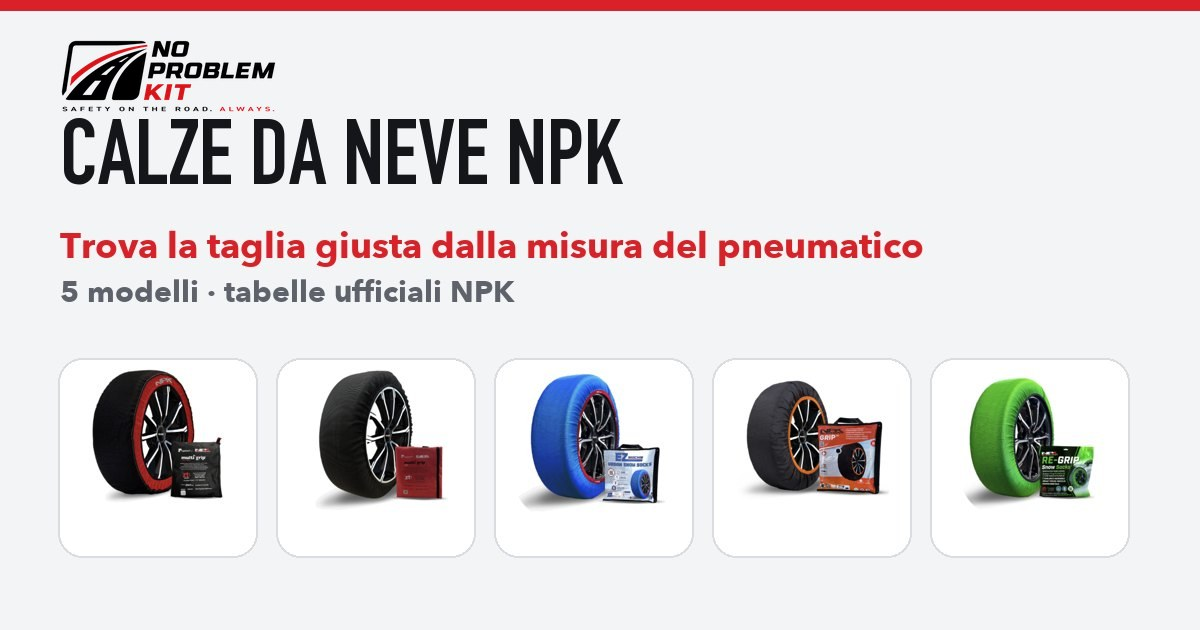
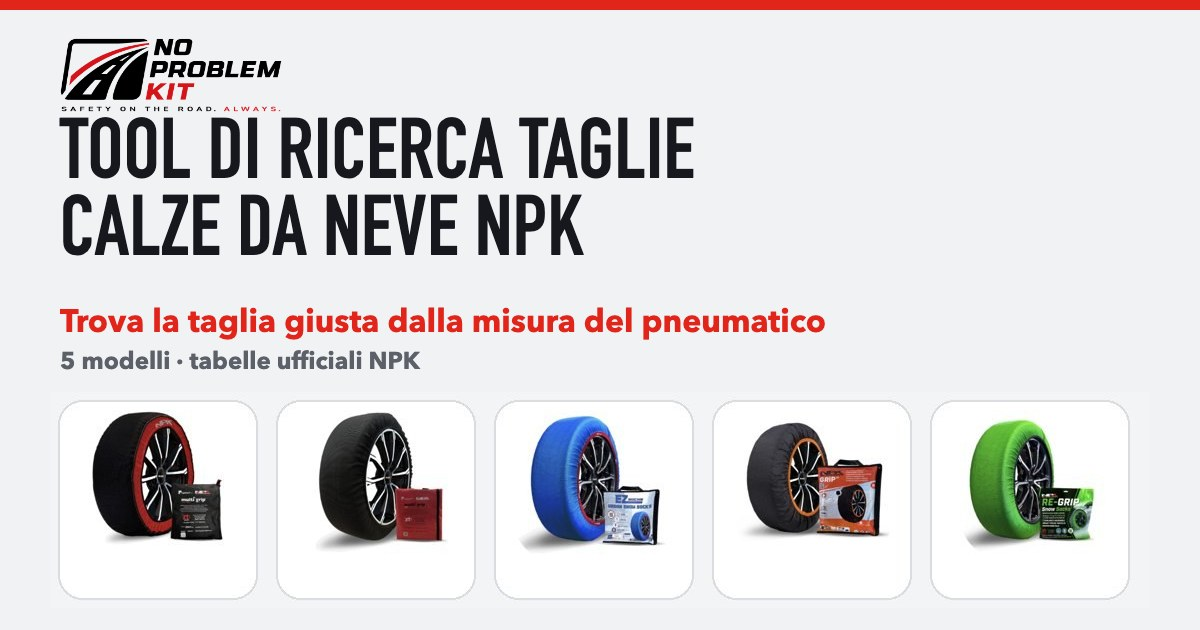
TOOL PRODOTTI: anteprima del tool calze con il titolo TOOL DI RICERCA TAGLIE CALZE DA NEVE NPK

diff --git a/francesco-dicesare/index.html b/francesco-dicesare/index.html
@@ -96,7 +96,7 @@ p.sub{color:var(--mute);font-size:15px;margin:6px 0 20px}
 <div class="v" data-n="2026-11-06b"><a href="vademecum-truck/" class="img"><img src="vademecum-truck/anteprima.jpg" alt="" loading="lazy" width="1200" height="630"></a><div class="t"><b>Vademecum Truck · la guida formativa TRK</b><small>ABC del truck, misure, gamma TRK, clienti, domande da fare e obiezioni. Solo da leggere: riservato agli agenti, il link non va inviato a nessuno.</small><div class="bt" style="grid-template-columns:1fr"><a href="vademecum-truck/" style="background:var(--ink);color:#fff">Apri il vademecum</a></div></div></div>
 <a class="su" href="#inizio">↑ Torna alle sezioni</a></section>
 <section class="sez" data-s="tool" hidden><img class="banner" src="../loghi/tool-prodotti-testata.svg" alt="" width="1200" height="360"><h2>TOOL PRODOTTI</h2>
-<div class="v" data-n="2026-11-08"><a href="https://makwheels.github.io/mak-calze-neve/" class="img"><img src="../tool-prodotti/calze-neve.jpg?v=3" alt="" loading="lazy" width="1200" height="630"></a><div class="t"><b>Tool di ricerca taglie calze da neve NPK · trova la taglia giusta</b><small>Tutti e 5 i modelli: The Original, Light, EZ Socks, Grip 3D e RE Grip. Metti la misura del pneumatico e vedi la taglia, con le tabelle ufficiali NPK.</small><code>https://makwheels.github.io/mak-calze-neve/</code><div class="bt"><button type="button" data-url="https://makwheels.github.io/mak-calze-neve/">Copia link</button><a class="wa" href="https://wa.me/?text=https%3A//makwheels.github.io/mak-calze-neve/" target="_blank" rel="noopener">Manda su WhatsApp</a></div></div></div>
+<div class="v" data-n="2026-11-08"><a href="https://makwheels.github.io/mak-calze-neve/" class="img"><img src="../tool-prodotti/calze-neve.jpg?v=4" alt="" loading="lazy" width="1200" height="630"></a><div class="t"><b>Tool di ricerca taglie calze da neve NPK · trova la taglia giusta</b><small>Tutti e 5 i modelli: The Original, Light, EZ Socks, Grip 3D e RE Grip. Metti la misura del pneumatico e vedi la taglia, con le tabelle ufficiali NPK.</small><code>https://makwheels.github.io/mak-calze-neve/</code><div class="bt"><button type="button" data-url="https://makwheels.github.io/mak-calze-neve/">Copia link</button><a class="wa" href="https://wa.me/?text=https%3A//makwheels.github.io/mak-calze-neve/" target="_blank" rel="noopener">Manda su WhatsApp</a></div></div></div>
 <a class="su" href="#inizio">↑ Torna alle sezioni</a></section>
 <section class="sez" data-s="push" hidden><img class="banner" src="../loghi/azioni-push-testata.svg" alt="" width="1200" height="360"><h2>AZIONI PUSH</h2>
 <div class="v" data-n="2026-11-08"><a href="promo-npk-30-3/" class="img"><img src="promo-npk-30-3/anteprima.jpg" alt="" loading="lazy" width="1200" height="630"></a><div class="t"><b>NPK 30+3 · 3 EZ Drive in omaggio</b><small>30 EZ Repair a 18,33 € + IVA l'uno, 3 EZ Drive in omaggio: 550 € + IVA. Solo fino al 15 novembre. Guarda quanto ci guadagni e ordina su WhatsApp.</small><code>https://makwheels.github.io/workspace-interattivo-mak/francesco-dicesare/promo-npk-30-3/</code><div class="bt"><button type="button" data-url="https://makwheels.github.io/workspace-interattivo-mak/francesco-dicesare/promo-npk-30-3/">Copia link</button><a class="wa" href="https://wa.me/?text=https%3A//makwheels.github.io/workspace-interattivo-mak/francesco-dicesare/promo-npk-30-3/" target="_blank" rel="noopener">Manda su WhatsApp</a></div></div></div>

diff --git a/marco-cesarini/index.html b/marco-cesarini/index.html
@@ -96,7 +96,7 @@ p.sub{color:var(--mute);font-size:15px;margin:6px 0 20px}
 <div class="v" data-n="2026-11-06b"><a href="vademecum-truck/" class="img"><img src="vademecum-truck/anteprima.jpg" alt="" loading="lazy" width="1200" height="630"></a><div class="t"><b>Vademecum Truck · la guida formativa TRK</b><small>ABC del truck, misure, gamma TRK, clienti, domande da fare e obiezioni. Solo da leggere: riservato agli agenti, il link non va inviato a nessuno.</small><div class="bt" style="grid-template-columns:1fr"><a href="vademecum-truck/" style="background:var(--ink);color:#fff">Apri il vademecum</a></div></div></div>
 <a class="su" href="#inizio">↑ Torna alle sezioni</a></section>
 <section class="sez" data-s="tool" hidden><img class="banner" src="../loghi/tool-prodotti-testata.svg" alt="" width="1200" height="360"><h2>TOOL PRODOTTI</h2>
-<div class="v" data-n="2026-11-08"><a href="https://makwheels.github.io/mak-calze-neve/" class="img"><img src="../tool-prodotti/calze-neve.jpg?v=3" alt="" loading="lazy" width="1200" height="630"></a><div class="t"><b>Tool di ricerca taglie calze da neve NPK · trova la taglia giusta</b><small>Tutti e 5 i modelli: The Original, Light, EZ Socks, Grip 3D e RE Grip. Metti la misura del pneumatico e vedi la taglia, con le tabelle ufficiali NPK.</small><code>https://makwheels.github.io/mak-calze-neve/</code><div class="bt"><button type="button" data-url="https://makwheels.github.io/mak-calze-neve/">Copia link</button><a class="wa" href="https://wa.me/?text=https%3A//makwheels.github.io/mak-calze-neve/" target="_blank" rel="noopener">Manda su WhatsApp</a></div></div></div>
+<div class="v" data-n="2026-11-08"><a href="https://makwheels.github.io/mak-calze-neve/" class="img"><img src="../tool-prodotti/calze-neve.jpg?v=4" alt="" loading="lazy" width="1200" height="630"></a><div class="t"><b>Tool di ricerca taglie calze da neve NPK · trova la taglia giusta</b><small>Tutti e 5 i modelli: The Original, Light, EZ Socks, Grip 3D e RE Grip. Metti la misura del pneumatico e vedi la taglia, con le tabelle ufficiali NPK.</small><code>https://makwheels.github.io/mak-calze-neve/</code><div class="bt"><button type="button" data-url="https://makwheels.github.io/mak-calze-neve/">Copia link</button><a class="wa" href="https://wa.me/?text=https%3A//makwheels.github.io/mak-calze-neve/" target="_blank" rel="noopener">Manda su WhatsApp</a></div></div></div>
 <a class="su" href="#inizio">↑ Torna alle sezioni</a></section>
 <section class="sez" data-s="push" hidden><img class="banner" src="../loghi/azioni-push-testata.svg" alt="" width="1200" height="360"><h2>AZIONI PUSH</h2>
 <div class="v" data-n="2026-11-08"><a href="promo-npk-30-3/" class="img"><img src="promo-npk-30-3/anteprima.jpg" alt="" loading="lazy" width="1200" height="630"></a><div class="t"><b>NPK 30+3 · 3 EZ Drive in omaggio</b><small>30 EZ Repair a 18,33 € + IVA l'uno, 3 EZ Drive in omaggio: 550 € + IVA. Solo fino al 15 novembre. Guarda quanto ci guadagni e ordina su WhatsApp.</small><code>https://makwheels.github.io/workspace-interattivo-mak/marco-cesarini/promo-npk-30-3/</code><div class="bt"><button type="button" data-url="https://makwheels.github.io/workspace-interattivo-mak/marco-cesarini/promo-npk-30-3/">Copia link</button><a class="wa" href="https://wa.me/?text=https%3A//makwheels.github.io/workspace-interattivo-mak/marco-cesarini/promo-npk-30-3/" target="_blank" rel="noopener">Manda su WhatsApp</a></div></div></div>

diff --git a/matteo-vismara/index.html b/matteo-vismara/index.html
@@ -96,7 +96,7 @@ p.sub{color:var(--mute);font-size:15px;margin:6px 0 20px}
 <div class="v" data-n="2026-11-06b"><a href="vademecum-truck/" class="img"><img src="vademecum-truck/anteprima.jpg" alt="" loading="lazy" width="1200" height="630"></a><div class="t"><b>Vademecum Truck · la guida formativa TRK</b><small>ABC del truck, misure, gamma TRK, clienti, domande da fare e obiezioni. Solo da leggere: riservato agli agenti, il link non va inviato a nessuno.</small><div class="bt" style="grid-template-columns:1fr"><a href="vademecum-truck/" style="background:var(--ink);color:#fff">Apri il vademecum</a></div></div></div>
 <a class="su" href="#inizio">↑ Torna alle sezioni</a></section>
 <section class="sez" data-s="tool" hidden><img class="banner" src="../loghi/tool-prodotti-testata.svg" alt="" width="1200" height="360"><h2>TOOL PRODOTTI</h2>
-<div class="v" data-n="2026-11-08"><a href="https://makwheels.github.io/mak-calze-neve/" class="img"><img src="../tool-prodotti/calze-neve.jpg?v=3" alt="" loading="lazy" width="1200" height="630"></a><div class="t"><b>Tool di ricerca taglie calze da neve NPK · trova la taglia giusta</b><small>Tutti e 5 i modelli: The Original, Light, EZ Socks, Grip 3D e RE Grip. Metti la misura del pneumatico e vedi la taglia, con le tabelle ufficiali NPK.</small><code>https://makwheels.github.io/mak-calze-neve/</code><div class="bt"><button type="button" data-url="https://makwheels.github.io/mak-calze-neve/">Copia link</button><a class="wa" href="https://wa.me/?text=https%3A//makwheels.github.io/mak-calze-neve/" target="_blank" rel="noopener">Manda su WhatsApp</a></div></div></div>
+<div class="v" data-n="2026-11-08"><a href="https://makwheels.github.io/mak-calze-neve/" class="img"><img src="../tool-prodotti/calze-neve.jpg?v=4" alt="" loading="lazy" width="1200" height="630"></a><div class="t"><b>Tool di ricerca taglie calze da neve NPK · trova la taglia giusta</b><small>Tutti e 5 i modelli: The Original, Light, EZ Socks, Grip 3D e RE Grip. Metti la misura del pneumatico e vedi la taglia, con le tabelle ufficiali NPK.</small><code>https://makwheels.github.io/mak-calze-neve/</code><div class="bt"><button type="button" data-url="https://makwheels.github.io/mak-calze-neve/">Copia link</button><a class="wa" href="https://wa.me/?text=https%3A//makwheels.github.io/mak-calze-neve/" target="_blank" rel="noopener">Manda su WhatsApp</a></div></div></div>
 <a class="su" href="#inizio">↑ Torna alle sezioni</a></section>
 <section class="sez" data-s="push" hidden><img class="banner" src="../loghi/azioni-push-testata.svg" alt="" width="1200" height="360"><h2>AZIONI PUSH</h2>
 <div class="v" data-n="2026-11-08"><a href="promo-npk-30-3/" class="img"><img src="promo-npk-30-3/anteprima.jpg" alt="" loading="lazy" width="1200" height="630"></a><div class="t"><b>NPK 30+3 · 3 EZ Drive in omaggio</b><small>30 EZ Repair a 18,33 € + IVA l'uno, 3 EZ Drive in omaggio: 550 € + IVA. Solo fino al 15 novembre. Guarda quanto ci guadagni e ordina su WhatsApp.</small><code>https://makwheels.github.io/workspace-interattivo-mak/matteo-vismara/promo-npk-30-3/</code><div class="bt"><button type="button" data-url="https://makwheels.github.io/workspace-interattivo-mak/matteo-vismara/promo-npk-30-3/">Copia link</button><a class="wa" href="https://wa.me/?text=https%3A//makwheels.github.io/workspace-interattivo-mak/matteo-vismara/promo-npk-30-3/" target="_blank" rel="noopener">Manda su WhatsApp</a></div></div></div>

diff --git a/mauro-galante/index.html b/mauro-galante/index.html
@@ -96,7 +96,7 @@ p.sub{color:var(--mute);font-size:15px;margin:6px 0 20px}
 <div class="v" data-n="2026-11-06b"><a href="vademecum-truck/" class="img"><img src="vademecum-truck/anteprima.jpg" alt="" loading="lazy" width="1200" height="630"></a><div class="t"><b>Vademecum Truck · la guida formativa TRK</b><small>ABC del truck, misure, gamma TRK, clienti, domande da fare e obiezioni. Solo da leggere: riservato agli agenti, il link non va inviato a nessuno.</small><div class="bt" style="grid-template-columns:1fr"><a href="vademecum-truck/" style="background:var(--ink);color:#fff">Apri il vademecum</a></div></div></div>
 <a class="su" href="#inizio">↑ Torna alle sezioni</a></section>
 <section class="sez" data-s="tool" hidden><img class="banner" src="../loghi/tool-prodotti-testata.svg" alt="" width="1200" height="360"><h2>TOOL PRODOTTI</h2>
-<div class="v" data-n="2026-11-08"><a href="https://makwheels.github.io/mak-calze-neve/" class="img"><img src="../tool-prodotti/calze-neve.jpg?v=3" alt="" loading="lazy" width="1200" height="630"></a><div class="t"><b>Tool di ricerca taglie calze da neve NPK · trova la taglia giusta</b><small>Tutti e 5 i modelli: The Original, Light, EZ Socks, Grip 3D e RE Grip. Metti la misura del pneumatico e vedi la taglia, con le tabelle ufficiali NPK.</small><code>https://makwheels.github.io/mak-calze-neve/</code><div class="bt"><button type="button" data-url="https://makwheels.github.io/mak-calze-neve/">Copia link</button><a class="wa" href="https://wa.me/?text=https%3A//makwheels.github.io/mak-calze-neve/" target="_blank" rel="noopener">Manda su WhatsApp</a></div></div></div>
+<div class="v" data-n="2026-11-08"><a href="https://makwheels.github.io/mak-calze-neve/" class="img"><img src="../tool-prodotti/calze-neve.jpg?v=4" alt="" loading="lazy" width="1200" height="630"></a><div class="t"><b>Tool di ricerca taglie calze da neve NPK · trova la taglia giusta</b><small>Tutti e 5 i modelli: The Original, Light, EZ Socks, Grip 3D e RE Grip. Metti la misura del pneumatico e vedi la taglia, con le tabelle ufficiali NPK.</small><code>https://makwheels.github.io/mak-calze-neve/</code><div class="bt"><button type="button" data-url="https://makwheels.github.io/mak-calze-neve/">Copia link</button><a class="wa" href="https://wa.me/?text=https%3A//makwheels.github.io/mak-calze-neve/" target="_blank" rel="noopener">Manda su WhatsApp</a></div></div></div>
 <a class="su" href="#inizio">↑ Torna alle sezioni</a></section>
 <section class="sez" data-s="push" hidden><img class="banner" src="../loghi/azioni-push-testata.svg" alt="" width="1200" height="360"><h2>AZIONI PUSH</h2>
 <div class="v" data-n="2026-11-08"><a href="promo-npk-30-3/" class="img"><img src="promo-npk-30-3/anteprima.jpg" alt="" loading="lazy" width="1200" height="630"></a><div class="t"><b>NPK 30+3 · 3 EZ Drive in omaggio</b><small>30 EZ Repair a 18,33 € + IVA l'uno, 3 EZ Drive in omaggio: 550 € + IVA. Solo fino al 15 novembre. Guarda quanto ci guadagni e ordina su WhatsApp.</small><code>https://makwheels.github.io/workspace-interattivo-mak/mauro-galante/promo-npk-30-3/</code><div class="bt"><button type="button" data-url="https://makwheels.github.io/workspace-interattivo-mak/mauro-galante/promo-npk-30-3/">Copia link</button><a class="wa" href="https://wa.me/?text=https%3A//makwheels.github.io/workspace-interattivo-mak/mauro-galante/promo-npk-30-3/" target="_blank" rel="noopener">Manda su WhatsApp</a></div></div></div>

diff --git a/mauro-pallini/index.html b/mauro-pallini/index.html
@@ -96,7 +96,7 @@ p.sub{color:var(--mute);font-size:15px;margin:6px 0 20px}
 <div class="v" data-n="2026-11-06b"><a href="vademecum-truck/" class="img"><img src="vademecum-truck/anteprima.jpg" alt="" loading="lazy" width="1200" height="630"></a><div class="t"><b>Vademecum Truck · la guida formativa TRK</b><small>ABC del truck, misure, gamma TRK, clienti, domande da fare e obiezioni. Solo da leggere: riservato agli agenti, il link non va inviato a nessuno.</small><div class="bt" style="grid-template-columns:1fr"><a href="vademecum-truck/" style="background:var(--ink);color:#fff">Apri il vademecum</a></div></div></div>
 <a class="su" href="#inizio">↑ Torna alle sezioni</a></section>
 <section class="sez" data-s="tool" hidden><img class="banner" src="../loghi/tool-prodotti-testata.svg" alt="" width="1200" height="360"><h2>TOOL PRODOTTI</h2>
-<div class="v" data-n="2026-11-08"><a href="https://makwheels.github.io/mak-calze-neve/" class="img"><img src="../tool-prodotti/calze-neve.jpg?v=3" alt="" loading="lazy" width="1200" height="630"></a><div class="t"><b>Tool di ricerca taglie calze da neve NPK · trova la taglia giusta</b><small>Tutti e 5 i modelli: The Original, Light, EZ Socks, Grip 3D e RE Grip. Metti la misura del pneumatico e vedi la taglia, con le tabelle ufficiali NPK.</small><code>https://makwheels.github.io/mak-calze-neve/</code><div class="bt"><button type="button" data-url="https://makwheels.github.io/mak-calze-neve/">Copia link</button><a class="wa" href="https://wa.me/?text=https%3A//makwheels.github.io/mak-calze-neve/" target="_blank" rel="noopener">Manda su WhatsApp</a></div></div></div>
+<div class="v" data-n="2026-11-08"><a href="https://makwheels.github.io/mak-calze-neve/" class="img"><img src="../tool-prodotti/calze-neve.jpg?v=4" alt="" loading="lazy" width="1200" height="630"></a><div class="t"><b>Tool di ricerca taglie calze da neve NPK · trova la taglia giusta</b><small>Tutti e 5 i modelli: The Original, Light, EZ Socks, Grip 3D e RE Grip. Metti la misura del pneumatico e vedi la taglia, con le tabelle ufficiali NPK.</small><code>https://makwheels.github.io/mak-calze-neve/</code><div class="bt"><button type="button" data-url="https://makwheels.github.io/mak-calze-neve/">Copia link</button><a class="wa" href="https://wa.me/?text=https%3A//makwheels.github.io/mak-calze-neve/" target="_blank" rel="noopener">Manda su WhatsApp</a></div></div></div>
 <a class="su" href="#inizio">↑ Torna alle sezioni</a></section>
 <section class="sez" data-s="push" hidden><img class="banner" src="../loghi/azioni-push-testata.svg" alt="" width="1200" height="360"><h2>AZIONI PUSH</h2>
 <div class="v" data-n="2026-11-08"><a href="promo-npk-30-3/" class="img"><img src="promo-npk-30-3/anteprima.jpg" alt="" loading="lazy" width="1200" height="630"></a><div class="t"><b>NPK 30+3 · 3 EZ Drive in omaggio</b><small>30 EZ Repair a 18,33 € + IVA l'uno, 3 EZ Drive in omaggio: 550 € + IVA. Solo fino al 15 novembre. Guarda quanto ci guadagni e ordina su WhatsApp.</small><code>https://makwheels.github.io/workspace-interattivo-mak/mauro-pallini/promo-npk-30-3/</code><div class="bt"><button type="button" data-url="https://makwheels.github.io/workspace-interattivo-mak/mauro-pallini/promo-npk-30-3/">Copia link</button><a class="wa" href="https://wa.me/?text=https%3A//makwheels.github.io/workspace-interattivo-mak/mauro-pallini/promo-npk-30-3/" target="_blank" rel="noopener">Manda su WhatsApp</a></div></div></div>

diff --git a/marco-podda/index.html b/marco-podda/index.html
@@ -96,7 +96,7 @@ p.sub{color:var(--mute);font-size:15px;margin:6px 0 20px}
 <div class="v" data-n="2026-11-06b"><a href="vademecum-truck/" class="img"><img src="vademecum-truck/anteprima.jpg" alt="" loading="lazy" width="1200" height="630"></a><div class="t"><b>Vademecum Truck · la guida formativa TRK</b><small>ABC del truck, misure, gamma TRK, clienti, domande da fare e obiezioni. Solo da leggere: riservato agli agenti, il link non va inviato a nessuno.</small><div class="bt" style="grid-template-columns:1fr"><a href="vademecum-truck/" style="background:var(--ink);color:#fff">Apri il vademecum</a></div></div></div>
 <a class="su" href="#inizio">↑ Torna alle sezioni</a></section>
 <section class="sez" data-s="tool" hidden><img class="banner" src="../loghi/tool-prodotti-testata.svg" alt="" width="1200" height="360"><h2>TOOL PRODOTTI</h2>
-<div class="v" data-n="2026-11-08"><a href="https://makwheels.github.io/mak-calze-neve/" class="img"><img src="../tool-prodotti/calze-neve.jpg?v=3" alt="" loading="lazy" width="1200" height="630"></a><div class="t"><b>Tool di ricerca taglie calze da neve NPK · trova la taglia giusta</b><small>Tutti e 5 i modelli: The Original, Light, EZ Socks, Grip 3D e RE Grip. Metti la misura del pneumatico e vedi la taglia, con le tabelle ufficiali NPK.</small><code>https://makwheels.github.io/mak-calze-neve/</code><div class="bt"><button type="button" data-url="https://makwheels.github.io/mak-calze-neve/">Copia link</button><a class="wa" href="https://wa.me/?text=https%3A//makwheels.github.io/mak-calze-neve/" target="_blank" rel="noopener">Manda su WhatsApp</a></div></div></div>
+<div class="v" data-n="2026-11-08"><a href="https://makwheels.github.io/mak-calze-neve/" class="img"><img src="../tool-prodotti/calze-neve.jpg?v=4" alt="" loading="lazy" width="1200" height="630"></a><div class="t"><b>Tool di ricerca taglie calze da neve NPK · trova la taglia giusta</b><small>Tutti e 5 i modelli: The Original, Light, EZ Socks, Grip 3D e RE Grip. Metti la misura del pneumatico e vedi la taglia, con le tabelle ufficiali NPK.</small><code>https://makwheels.github.io/mak-calze-neve/</code><div class="bt"><button type="button" data-url="https://makwheels.github.io/mak-calze-neve/">Copia link</button><a class="wa" href="https://wa.me/?text=https%3A//makwheels.github.io/mak-calze-neve/" target="_blank" rel="noopener">Manda su WhatsApp</a></div></div></div>
 <a class="su" href="#inizio">↑ Torna alle sezioni</a></section>
 <section class="sez" data-s="push" hidden><img class="banner" src="../loghi/azioni-push-testata.svg" alt="" width="1200" height="360"><h2>AZIONI PUSH</h2>
 <div class="v" data-n="2026-11-08"><a href="promo-npk-30-3/" class="img"><img src="promo-npk-30-3/anteprima.jpg" alt="" loading="lazy" width="1200" height="630"></a><div class="t"><b>NPK 30+3 · 3 EZ Drive in omaggio</b><small>30 EZ Repair a 18,33 € + IVA l'uno, 3 EZ Drive in omaggio: 550 € + IVA. Solo fino al 15 novembre. Guarda quanto ci guadagni e ordina su WhatsApp.</small><code>https://makwheels.github.io/workspace-interattivo-mak/marco-podda/promo-npk-30-3/</code><div class="bt"><button type="button" data-url="https://makwheels.github.io/workspace-interattivo-mak/marco-podda/promo-npk-30-3/">Copia link</button><a class="wa" href="https://wa.me/?text=https%3A//makwheels.github.io/workspace-interattivo-mak/marco-podda/promo-npk-30-3/" target="_blank" rel="noopener">Manda su WhatsApp</a></div></div></div>

diff --git a/sebastiano/index.html b/sebastiano/index.html
@@ -96,7 +96,7 @@ p.sub{color:var(--mute);font-size:15px;margin:6px 0 20px}
 <div class="v" data-n="2026-11-06b"><a href="vademecum-truck/" class="img"><img src="vademecum-truck/anteprima.jpg" alt="" loading="lazy" width="1200" height="630"></a><div class="t"><b>Vademecum Truck · la guida formativa TRK</b><small>ABC del truck, misure, gamma TRK, clienti, domande da fare e obiezioni. Solo da leggere: riservato agli agenti, il link non va inviato a nessuno.</small><div class="bt" style="grid-template-columns:1fr"><a href="vademecum-truck/" style="background:var(--ink);color:#fff">Apri il vademecum</a></div></div></div>
 <a class="su" href="#inizio">↑ Torna alle sezioni</a></section>
 <section class="sez" data-s="tool" hidden><img class="banner" src="../loghi/tool-prodotti-testata.svg" alt="" width="1200" height="360"><h2>TOOL PRODOTTI</h2>
-<div class="v" data-n="2026-11-08"><a href="https://makwheels.github.io/mak-calze-neve/" class="img"><img src="../tool-prodotti/calze-neve.jpg?v=3" alt="" loading="lazy" width="1200" height="630"></a><div class="t"><b>Tool di ricerca taglie calze da neve NPK · trova la taglia giusta</b><small>Tutti e 5 i modelli: The Original, Light, EZ Socks, Grip 3D e RE Grip. Metti la misura del pneumatico e vedi la taglia, con le tabelle ufficiali NPK.</small><code>https://makwheels.github.io/mak-calze-neve/</code><div class="bt"><button type="button" data-url="https://makwheels.github.io/mak-calze-neve/">Copia link</button><a class="wa" href="https://wa.me/?text=https%3A//makwheels.github.io/mak-calze-neve/" target="_blank" rel="noopener">Manda su WhatsApp</a></div></div></div>
+<div class="v" data-n="2026-11-08"><a href="https://makwheels.github.io/mak-calze-neve/" class="img"><img src="../tool-prodotti/calze-neve.jpg?v=4" alt="" loading="lazy" width="1200" height="630"></a><div class="t"><b>Tool di ricerca taglie calze da neve NPK · trova la taglia giusta</b><small>Tutti e 5 i modelli: The Original, Light, EZ Socks, Grip 3D e RE Grip. Metti la misura del pneumatico e vedi la taglia, con le tabelle ufficiali NPK.</small><code>https://makwheels.github.io/mak-calze-neve/</code><div class="bt"><button type="button" data-url="https://makwheels.github.io/mak-calze-neve/">Copia link</button><a class="wa" href="https://wa.me/?text=https%3A//makwheels.github.io/mak-calze-neve/" target="_blank" rel="noopener">Manda su WhatsApp</a></div></div></div>
 <a class="su" href="#inizio">↑ Torna alle sezioni</a></section>
 <section class="sez" data-s="push" hidden><img class="banner" src="../loghi/azioni-push-testata.svg" alt="" width="1200" height="360"><h2>AZIONI PUSH</h2>
 <div class="v" data-n="2026-11-08"><a href="promo-npk-30-3/" class="img"><img src="promo-npk-30-3/anteprima.jpg" alt="" loading="lazy" width="1200" height="630"></a><div class="t"><b>NPK 30+3 · 3 EZ Drive in omaggio</b><small>30 EZ Repair a 18,33 € + IVA l'uno, 3 EZ Drive in omaggio: 550 € + IVA. Solo fino al 15 novembre. Guarda quanto ci guadagni e ordina su WhatsApp.</small><code>https://makwheels.github.io/workspace-interattivo-mak/sebastiano/promo-npk-30-3/</code><div class="bt"><button type="button" data-url="https://makwheels.github.io/workspace-interattivo-mak/sebastiano/promo-npk-30-3/">Copia link</button><a class="wa" href="https://wa.me/?text=https%3A//makwheels.github.io/workspace-interattivo-mak/sebastiano/promo-npk-30-3/" target="_blank" rel="noopener">Manda su WhatsApp</a></div></div></div>

diff --git a/francesco/index.html b/francesco/index.html
@@ -96,7 +96,7 @@ p.sub{color:var(--mute);font-size:15px;margin:6px 0 20px}
 <div class="v" data-n="2026-11-06b"><a href="vademecum-truck/" class="img"><img src="vademecum-truck/anteprima.jpg" alt="" loading="lazy" width="1200" height="630"></a><div class="t"><b>Vademecum Truck · la guida formativa TRK</b><small>ABC del truck, misure, gamma TRK, clienti, domande da fare e obiezioni. Solo da leggere: riservato agli agenti, il link non va inviato a nessuno.</small><div class="bt" style="grid-template-columns:1fr"><a href="vademecum-truck/" style="background:var(--ink);color:#fff">Apri il vademecum</a></div></div></div>
 <a class="su" href="#inizio">↑ Torna alle sezioni</a></section>
 <section class="sez" data-s="tool" hidden><img class="banner" src="../loghi/tool-prodotti-testata.svg" alt="" width="1200" height="360"><h2>TOOL PRODOTTI</h2>
-<div class="v" data-n="2026-11-08"><a href="https://makwheels.github.io/mak-calze-neve/" class="img"><img src="../tool-prodotti/calze-neve.jpg?v=3" alt="" loading="lazy" width="1200" height="630"></a><div class="t"><b>Tool di ricerca taglie calze da neve NPK · trova la taglia giusta</b><small>Tutti e 5 i modelli: The Original, Light, EZ Socks, Grip 3D e RE Grip. Metti la misura del pneumatico e vedi la taglia, con le tabelle ufficiali NPK.</small><code>https://makwheels.github.io/mak-calze-neve/</code><div class="bt"><button type="button" data-url="https://makwheels.github.io/mak-calze-neve/">Copia link</button><a class="wa" href="https://wa.me/?text=https%3A//makwheels.github.io/mak-calze-neve/" target="_blank" rel="noopener">Manda su WhatsApp</a></div></div></div>
+<div class="v" data-n="2026-11-08"><a href="https://makwheels.github.io/mak-calze-neve/" class="img"><img src="../tool-prodotti/calze-neve.jpg?v=4" alt="" loading="lazy" width="1200" height="630"></a><div class="t"><b>Tool di ricerca taglie calze da neve NPK · trova la taglia giusta</b><small>Tutti e 5 i modelli: The Original, Light, EZ Socks, Grip 3D e RE Grip. Metti la misura del pneumatico e vedi la taglia, con le tabelle ufficiali NPK.</small><code>https://makwheels.github.io/mak-calze-neve/</code><div class="bt"><button type="button" data-url="https://makwheels.github.io/mak-calze-neve/">Copia link</button><a class="wa" href="https://wa.me/?text=https%3A//makwheels.github.io/mak-calze-neve/" target="_blank" rel="noopener">Manda su WhatsApp</a></div></div></div>
 <a class="su" href="#inizio">↑ Torna alle sezioni</a></section>
 <section class="sez" data-s="push" hidden><img class="banner" src="../loghi/azioni-push-testata.svg" alt="" width="1200" height="360"><h2>AZIONI PUSH</h2>
 <div class="v" data-n="2026-11-08"><a href="promo-npk-30-3/" class="img"><img src="promo-npk-30-3/anteprima.jpg" alt="" loading="lazy" width="1200" height="630"></a><div class="t"><b>NPK 30+3 · 3 EZ Drive in omaggio</b><small>30 EZ Repair a 18,33 € + IVA l'uno, 3 EZ Drive in omaggio: 550 € + IVA. Solo fino al 15 novembre. Guarda quanto ci guadagni e ordina su WhatsApp.</small><code>https://makwheels.github.io/workspace-interattivo-mak/francesco/promo-npk-30-3/</code><div class="bt"><button type="button" data-url="https://makwheels.github.io/workspace-interattivo-mak/francesco/promo-npk-30-3/">Copia link</button><a class="wa" href="https://wa.me/?text=https%3A//makwheels.github.io/workspace-interattivo-mak/francesco/promo-npk-30-3/" target="_blank" rel="noopener">Manda su WhatsApp</a></div></div></div>

diff --git a/domenico/index.html b/domenico/index.html
@@ -96,7 +96,7 @@ p.sub{color:var(--mute);font-size:15px;margin:6px 0 20px}
 <div class="v" data-n="2026-11-06b"><a href="vademecum-truck/" class="img"><img src="vademecum-truck/anteprima.jpg" alt="" loading="lazy" width="1200" height="630"></a><div class="t"><b>Vademecum Truck · la guida formativa TRK</b><small>ABC del truck, misure, gamma TRK, clienti, domande da fare e obiezioni. Solo da leggere: riservato agli agenti, il link non va inviato a nessuno.</small><div class="bt" style="grid-template-columns:1fr"><a href="vademecum-truck/" style="background:var(--ink);color:#fff">Apri il vademecum</a></div></div></div>
 <a class="su" href="#inizio">↑ Torna alle sezioni</a></section>
 <section class="sez" data-s="tool" hidden><img class="banner" src="../loghi/tool-prodotti-testata.svg" alt="" width="1200" height="360"><h2>TOOL PRODOTTI</h2>
-<div class="v" data-n="2026-11-08"><a href="https://makwheels.github.io/mak-calze-neve/" class="img"><img src="../tool-prodotti/calze-neve.jpg?v=3" alt="" loading="lazy" width="1200" height="630"></a><div class="t"><b>Tool di ricerca taglie calze da neve NPK · trova la taglia giusta</b><small>Tutti e 5 i modelli: The Original, Light, EZ Socks, Grip 3D e RE Grip. Metti la misura del pneumatico e vedi la taglia, con le tabelle ufficiali NPK.</small><code>https://makwheels.github.io/mak-calze-neve/</code><div class="bt"><button type="button" data-url="https://makwheels.github.io/mak-calze-neve/">Copia link</button><a class="wa" href="https://wa.me/?text=https%3A//makwheels.github.io/mak-calze-neve/" target="_blank" rel="noopener">Manda su WhatsApp</a></div></div></div>
+<div class="v" data-n="2026-11-08"><a href="https://makwheels.github.io/mak-calze-neve/" class="img"><img src="../tool-prodotti/calze-neve.jpg?v=4" alt="" loading="lazy" width="1200" height="630"></a><div class="t"><b>Tool di ricerca taglie calze da neve NPK · trova la taglia giusta</b><small>Tutti e 5 i modelli: The Original, Light, EZ Socks, Grip 3D e RE Grip. Metti la misura del pneumatico e vedi la taglia, con le tabelle ufficiali NPK.</small><code>https://makwheels.github.io/mak-calze-neve/</code><div class="bt"><button type="button" data-url="https://makwheels.github.io/mak-calze-neve/">Copia link</button><a class="wa" href="https://wa.me/?text=https%3A//makwheels.github.io/mak-calze-neve/" target="_blank" rel="noopener">Manda su WhatsApp</a></div></div></div>
 <a class="su" href="#inizio">↑ Torna alle sezioni</a></section>
 <section class="sez" data-s="push" hidden><img class="banner" src="../loghi/azioni-push-testata.svg" alt="" width="1200" height="360"><h2>AZIONI PUSH</h2>
 <div class="v" data-n="2026-11-08"><a href="promo-npk-30-3/" class="img"><img src="promo-npk-30-3/anteprima.jpg" alt="" loading="lazy" width="1200" height="630"></a><div class="t"><b>NPK 30+3 · 3 EZ Drive in omaggio</b><small>30 EZ Repair a 18,33 € + IVA l'uno, 3 EZ Drive in omaggio: 550 € + IVA. Solo fino al 15 novembre. Guarda quanto ci guadagni e ordina su WhatsApp.</small><code>https://makwheels.github.io/workspace-interattivo-mak/domenico/promo-npk-30-3/</code><div class="bt"><button type="button" data-url="https://makwheels.github.io/workspace-interattivo-mak/domenico/promo-npk-30-3/">Copia link</button><a class="wa" href="https://wa.me/?text=https%3A//makwheels.github.io/workspace-interattivo-mak/domenico/promo-npk-30-3/" target="_blank" rel="noopener">Manda su WhatsApp</a></div></div></div>

diff --git a/federico/index.html b/federico/index.html
@@ -96,7 +96,7 @@ p.sub{color:var(--mute);font-size:15px;margin:6px 0 20px}
 <div class="v" data-n="2026-11-06b"><a href="vademecum-truck/" class="img"><img src="vademecum-truck/anteprima.jpg" alt="" loading="lazy" width="1200" height="630"></a><div class="t"><b>Vademecum Truck · la guida formativa TRK</b><small>ABC del truck, misure, gamma TRK, clienti, domande da fare e obiezioni. Solo da leggere: riservato agli agenti, il link non va inviato a nessuno.</small><div class="bt" style="grid-template-columns:1fr"><a href="vademecum-truck/" style="background:var(--ink);color:#fff">Apri il vademecum</a></div></div></div>
 <a class="su" href="#inizio">↑ Torna alle sezioni</a></section>
 <section class="sez" data-s="tool" hidden><img class="banner" src="../loghi/tool-prodotti-testata.svg" alt="" width="1200" height="360"><h2>TOOL PRODOTTI</h2>
-<div class="v" data-n="2026-11-08"><a href="https://makwheels.github.io/mak-calze-neve/" class="img"><img src="../tool-prodotti/calze-neve.jpg?v=3" alt="" loading="lazy" width="1200" height="630"></a><div class="t"><b>Tool di ricerca taglie calze da neve NPK · trova la taglia giusta</b><small>Tutti e 5 i modelli: The Original, Light, EZ Socks, Grip 3D e RE Grip. Metti la misura del pneumatico e vedi la taglia, con le tabelle ufficiali NPK.</small><code>https://makwheels.github.io/mak-calze-neve/</code><div class="bt"><button type="button" data-url="https://makwheels.github.io/mak-calze-neve/">Copia link</button><a class="wa" href="https://wa.me/?text=https%3A//makwheels.github.io/mak-calze-neve/" target="_blank" rel="noopener">Manda su WhatsApp</a></div></div></div>
+<div class="v" data-n="2026-11-08"><a href="https://makwheels.github.io/mak-calze-neve/" class="img"><img src="../tool-prodotti/calze-neve.jpg?v=4" alt="" loading="lazy" width="1200" height="630"></a><div class="t"><b>Tool di ricerca taglie calze da neve NPK · trova la taglia giusta</b><small>Tutti e 5 i modelli: The Original, Light, EZ Socks, Grip 3D e RE Grip. Metti la misura del pneumatico e vedi la taglia, con le tabelle ufficiali NPK.</small><code>https://makwheels.github.io/mak-calze-neve/</code><div class="bt"><button type="button" data-url="https://makwheels.github.io/mak-calze-neve/">Copia link</button><a class="wa" href="https://wa.me/?text=https%3A//makwheels.github.io/mak-calze-neve/" target="_blank" rel="noopener">Manda su WhatsApp</a></div></div></div>
 <a class="su" href="#inizio">↑ Torna alle sezioni</a></section>
 <section class="sez" data-s="push" hidden><img class="banner" src="../loghi/azioni-push-testata.svg" alt="" width="1200" height="360"><h2>AZIONI PUSH</h2>
 <div class="v" data-n="2026-11-08"><a href="promo-npk-30-3/" class="img"><img src="promo-npk-30-3/anteprima.jpg" alt="" loading="lazy" width="1200" height="630"></a><div class="t"><b>NPK 30+3 · 3 EZ Drive in omaggio</b><small>30 EZ Repair a 18,33 € + IVA l'uno, 3 EZ Drive in omaggio: 550 € + IVA. Solo fino al 15 novembre. Guarda quanto ci guadagni e ordina su WhatsApp.</small><code>https://makwheels.github.io/workspace-interattivo-mak/federico/promo-npk-30-3/</code><div class="bt"><button type="button" data-url="https://makwheels.github.io/workspace-interattivo-mak/federico/promo-npk-30-3/">Copia link</button><a class="wa" href="https://wa.me/?text=https%3A//makwheels.github.io/workspace-interattivo-mak/federico/promo-npk-30-3/" target="_blank" rel="noopener">Manda su WhatsApp</a></div></div></div>

diff --git a/gianluca/index.html b/gianluca/index.html
@@ -96,7 +96,7 @@ p.sub{color:var(--mute);font-size:15px;margin:6px 0 20px}
 <div class="v" data-n="2026-11-06b"><a href="vademecum-truck/" class="img"><img src="vademecum-truck/anteprima.jpg" alt="" loading="lazy" width="1200" height="630"></a><div class="t"><b>Vademecum Truck · la guida formativa TRK</b><small>ABC del truck, misure, gamma TRK, clienti, domande da fare e obiezioni. Solo da leggere: riservato agli agenti, il link non va inviato a nessuno.</small><div class="bt" style="grid-template-columns:1fr"><a href="vademecum-truck/" style="background:var(--ink);color:#fff">Apri il vademecum</a></div></div></div>
 <a class="su" href="#inizio">↑ Torna alle sezioni</a></section>
 <section class="sez" data-s="tool" hidden><img class="banner" src="../loghi/tool-prodotti-testata.svg" alt="" width="1200" height="360"><h2>TOOL PRODOTTI</h2>
-<div class="v" data-n="2026-11-08"><a href="https://makwheels.github.io/mak-calze-neve/" class="img"><img src="../tool-prodotti/calze-neve.jpg?v=3" alt="" loading="lazy" width="1200" height="630"></a><div class="t"><b>Tool di ricerca taglie calze da neve NPK · trova la taglia giusta</b><small>Tutti e 5 i modelli: The Original, Light, EZ Socks, Grip 3D e RE Grip. Metti la misura del pneumatico e vedi la taglia, con le tabelle ufficiali NPK.</small><code>https://makwheels.github.io/mak-calze-neve/</code><div class="bt"><button type="button" data-url="https://makwheels.github.io/mak-calze-neve/">Copia link</button><a class="wa" href="https://wa.me/?text=https%3A//makwheels.github.io/mak-calze-neve/" target="_blank" rel="noopener">Manda su WhatsApp</a></div></div></div>
+<div class="v" data-n="2026-11-08"><a href="https://makwheels.github.io/mak-calze-neve/" class="img"><img src="../tool-prodotti/calze-neve.jpg?v=4" alt="" loading="lazy" width="1200" height="630"></a><div class="t"><b>Tool di ricerca taglie calze da neve NPK · trova la taglia giusta</b><small>Tutti e 5 i modelli: The Original, Light, EZ Socks, Grip 3D e RE Grip. Metti la misura del pneumatico e vedi la taglia, con le tabelle ufficiali NPK.</small><code>https://makwheels.github.io/mak-calze-neve/</code><div class="bt"><button type="button" data-url="https://makwheels.github.io/mak-calze-neve/">Copia link</button><a class="wa" href="https://wa.me/?text=https%3A//makwheels.github.io/mak-calze-neve/" target="_blank" rel="noopener">Manda su WhatsApp</a></div></div></div>
 <a class="su" href="#inizio">↑ Torna alle sezioni</a></section>
 <section class="sez" data-s="push" hidden><img class="banner" src="../loghi/azioni-push-testata.svg" alt="" width="1200" height="360"><h2>AZIONI PUSH</h2>
 <div class="v" data-n="2026-11-08"><a href="promo-npk-30-3/" class="img"><img src="promo-npk-30-3/anteprima.jpg" alt="" loading="lazy" width="1200" height="630"></a><div class="t"><b>NPK 30+3 · 3 EZ Drive in omaggio</b><small>30 EZ Repair a 18,33 € + IVA l'uno, 3 EZ Drive in omaggio: 550 € + IVA. Solo fino al 15 novembre. Guarda quanto ci guadagni e ordina su WhatsApp.</small><code>https://makwheels.github.io/workspace-interattivo-mak/gianluca/promo-npk-30-3/</code><div class="bt"><button type="button" data-url="https://makwheels.github.io/workspace-interattivo-mak/gianluca/promo-npk-30-3/">Copia link</button><a class="wa" href="https://wa.me/?text=https%3A//makwheels.github.io/workspace-interattivo-mak/gianluca/promo-npk-30-3/" target="_blank" rel="noopener">Manda su WhatsApp</a></div></div></div>

diff --git a/stefania/index.html b/stefania/index.html
@@ -96,7 +96,7 @@ p.sub{color:var(--mute);font-size:15px;margin:6px 0 20px}
 <div class="v" data-n="2026-11-06b"><a href="vademecum-truck/" class="img"><img src="vademecum-truck/anteprima.jpg" alt="" loading="lazy" width="1200" height="630"></a><div class="t"><b>Vademecum Truck · la guida formativa TRK</b><small>ABC del truck, misure, gamma TRK, clienti, domande da fare e obiezioni. Solo da leggere: riservato agli agenti, il link non va inviato a nessuno.</small><div class="bt" style="grid-template-columns:1fr"><a href="vademecum-truck/" style="background:var(--ink);color:#fff">Apri il vademecum</a></div></div></div>
 <a class="su" href="#inizio">↑ Torna alle sezioni</a></section>
 <section class="sez" data-s="tool" hidden><img class="banner" src="../loghi/tool-prodotti-testata.svg" alt="" width="1200" height="360"><h2>TOOL PRODOTTI</h2>
-<div class="v" data-n="2026-11-08"><a href="https://makwheels.github.io/mak-calze-neve/" class="img"><img src="../tool-prodotti/calze-neve.jpg?v=3" alt="" loading="lazy" width="1200" height="630"></a><div class="t"><b>Tool di ricerca taglie calze da neve NPK · trova la taglia giusta</b><small>Tutti e 5 i modelli: The Original, Light, EZ Socks, Grip 3D e RE Grip. Metti la misura del pneumatico e vedi la taglia, con le tabelle ufficiali NPK.</small><code>https://makwheels.github.io/mak-calze-neve/</code><div class="bt"><button type="button" data-url="https://makwheels.github.io/mak-calze-neve/">Copia link</button><a class="wa" href="https://wa.me/?text=https%3A//makwheels.github.io/mak-calze-neve/" target="_blank" rel="noopener">Manda su WhatsApp</a></div></div></div>
+<div class="v" data-n="2026-11-08"><a href="https://makwheels.github.io/mak-calze-neve/" class="img"><img src="../tool-prodotti/calze-neve.jpg?v=4" alt="" loading="lazy" width="1200" height="630"></a><div class="t"><b>Tool di ricerca taglie calze da neve NPK · trova la taglia giusta</b><small>Tutti e 5 i modelli: The Original, Light, EZ Socks, Grip 3D e RE Grip. Metti la misura del pneumatico e vedi la taglia, con le tabelle ufficiali NPK.</small><code>https://makwheels.github.io/mak-calze-neve/</code><div class="bt"><button type="button" data-url="https://makwheels.github.io/mak-calze-neve/">Copia link</button><a class="wa" href="https://wa.me/?text=https%3A//makwheels.github.io/mak-calze-neve/" target="_blank" rel="noopener">Manda su WhatsApp</a></div></div></div>
 <a class="su" href="#inizio">↑ Torna alle sezioni</a></section>
 <section class="sez" data-s="push" hidden><img class="banner" src="../loghi/azioni-push-testata.svg" alt="" width="1200" height="360"><h2>AZIONI PUSH</h2>
 <div class="v" data-n="2026-11-08"><a href="promo-npk-30-3/" class="img"><img src="promo-npk-30-3/anteprima.jpg" alt="" loading="lazy" width="1200" height="630"></a><div class="t"><b>NPK 30+3 · 3 EZ Drive in omaggio</b><small>30 EZ Repair a 18,33 € + IVA l'uno, 3 EZ Drive in omaggio: 550 € + IVA. Solo fino al 15 novembre. Guarda quanto ci guadagni e ordina su WhatsApp.</small><code>https://makwheels.github.io/workspace-interattivo-mak/stefania/promo-npk-30-3/</code><div class="bt"><button type="button" data-url="https://makwheels.github.io/workspace-interattivo-mak/stefania/promo-npk-30-3/">Copia link</button><a class="wa" href="https://wa.me/?text=https%3A//makwheels.github.io/workspace-interattivo-mak/stefania/promo-npk-30-3/" target="_blank" rel="noopener">Manda su WhatsApp</a></div></div></div>
